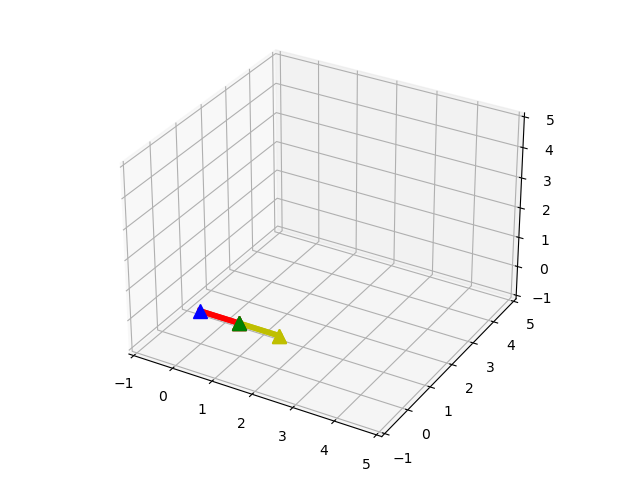
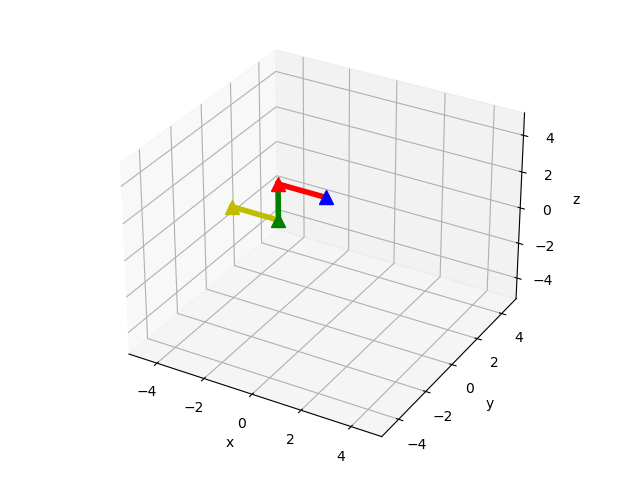
Se termina el ejercicio de cinematica directa para 3D

diff --git a/Fisica-II/Seminarios/Seminario-IV/cinematicaDirecta3D.py b/Fisica-II/Seminarios/Seminario-IV/cinematicaDirecta3D.py
@@ -32,7 +32,7 @@ def robot_structure():
 	p = np.array([1, 0, -1])
 	
 	#Se define la matriz homogenea de rotacion (T_matrix es una funcion creada posteriormente)
-	M0 = T_matrix(np.eye(3), p)
+	M0 = T_matrix(np.transpose(np.array([[0,0,-1],[0,1,0],[1,0,0]])), p)
 	return S1, S2, S3, M0
 
 
@@ -74,7 +74,7 @@ def exp_matrix(S, theta):
 
 #Se preparan las opciones para que el codigo pueda recibir parametros
 parser = OptionParser()
-parser.add_option("-a", "--a1", type="float", default=0, help="Ángulo de rotación para la primera articulación (grados)")
+parser.add_option("-a", "--a1", type="float", default=180, help="Ángulo de rotación para la primera articulación (grados)")
 parser.add_option("-b", "--a2", type="float", default=0, help="Ángulo de rotación para la segunda articulación (grados)")
 parser.add_option("-c", "--a3", type="float", default=0, help="Ángulo de rotación para la tercera articulación (grados)")
 (options, args) = parser.parse_args()
@@ -100,12 +100,12 @@ fig = plt.figure()
 ax = fig.add_subplot(111, projection= '3d')
 
 # Definimos el origen y el final de cada eslabón en la posición cero y en la posición final del robot
-p10ini = np.array([0, 0, 0, 1])
-p11ini = np.array([1, 0, 0, 1])
+p10ini = np.array([0, 0, 2, 1])
+p11ini = np.array([2, 0, 2, 1])
 p20ini = p11ini
-p21ini = np.array([1, 0, -1, 1])
+p21ini = np.array([2, 0, 0, 1])
 p30ini = p21ini
-p31ini = np.array([2, 0, -1, 1])
+p31ini = np.array([4, 0, 0, 1])
 p10fin = p10ini
 p11fin = T1 @ p11ini
 p20fin = p11fin
@@ -114,33 +114,36 @@ p30fin = p21fin
 p31fin = T1 @ T2 @ T3 @ p31ini
 
 # Dibuja el primer eslabón en posicion 0
-ax.plot([p10ini[0], p11ini[0]], [p10ini[1], p11ini[1]], 'r', linewidth=4)
+#ax.plot([p10ini[0], p11ini[0]], [p10ini[1], p11ini[1]], [p10ini[2], p11ini[2]], 'r', linewidth=4)
 # Dibuja el primer eslabon rotado
-ax.plot([p10fin[0], p11fin[0]], [p10fin[1], p11fin[1]], 'r', linewidth=4)
+ax.plot([p10fin[0], p11fin[0]], [p10fin[1], p11fin[1]], [p10fin[2], p11fin[2]], 'r', linewidth=4)
 
 # Dibuja el segundo eslabón
-ax.plot([p20ini[0], p21ini[0]], [p20ini[1], p21ini[1]], 'g', linewidth=4)
+#ax.plot([p20ini[0], p21ini[0]], [p20ini[1], p21ini[1]], [p20ini[2], p21ini[2]], 'g', linewidth=4)
 # Dibuja el segundo eslabon rotado 
-ax.plot([p20fin[0], p21fin[0]], [p20fin[1], p21fin[1]], 'g', linewidth=4)
+ax.plot([p20fin[0], p21fin[0]], [p20fin[1], p21fin[1]], [p20fin[2], p21fin[2]], 'g', linewidth=4)
 
 # Dibuja el tercer eslabón
-ax.plot([p30ini[0], p31ini[0]], [p30ini[1], p31ini[1]], 'y', linewidth=4)
+#ax.plot([p30ini[0], p31ini[0]], [p30ini[1], p31ini[1]], [p30ini[2], p31ini[2]], 'y', linewidth=4)
 # Dibuja el tercer eslabon rotado
-ax.plot([p30fin[0], p31fin[0]], [p30fin[1], p31fin[1]], 'y', linewidth=4)
+ax.plot([p30fin[0], p31fin[0]], [p30fin[1], p31fin[1]], [p30fin[2], p31fin[2]], 'y', linewidth=4)
 
 # Dibuja los puntos de interés
-ax.plot(p10ini[0], p10ini[1], 'b^', markersize=10) # punto inicial de L1
-ax.plot(p11ini[0], p11ini[1], 'r^', markersize=10) # punto final de L1 en la posición inicial
-ax.plot(p11fin[0], p11fin[1], 'r^', markersize=10) # punto final de L1 en la posición final
-ax.plot(p21ini[0], p21ini[1], 'g^', markersize=10) # punto final de L2 en la posición inicial
-ax.plot(p21fin[0], p21fin[1], 'g^', markersize=10) # punto final de L2 en la posición final
-ax.plot(p31ini[0], p31ini[1], 'y^', markersize=10) # punto final de L3 en la posición inicial
-ax.plot(p31fin[0], p31fin[1], 'y^', markersize=10) # punto final de L3 en la posición final
+ax.plot(p10ini[0], p10ini[1], p10ini[2], 'b^', markersize=10) # punto inicial de L1
+#ax.plot(p11ini[0], p11ini[1], p11ini[2], 'r^', markersize=10) # punto final de L1 en la posición 0
+ax.plot(p11fin[0], p11fin[1], p11fin[2], 'r^', markersize=10) # punto final de L1 en la posición rotada
+#ax.plot(p21ini[0], p21ini[1], p21ini[2], 'g^', markersize=10) # punto final de L2 en la posición 0
+ax.plot(p21fin[0], p21fin[1], p21fin[2], 'g^', markersize=10) # punto final de L2 en la posición rotada
+#ax.plot(p31ini[0], p31ini[1], p31ini[2], 'y^', markersize=10) # punto final de L3 en la posición 0
+ax.plot(p31fin[0], p31fin[1], p31fin[2], 'y^', markersize=10) # punto final de L3 en la posición rotada
 
 # Ajusta el tamaño del gráfico y lo guarda
-ax.set_xlim(-1, 5)
-ax.set_ylim(-1, 5)
-ax.set_zlim(-1, 5)
+ax.set_xlabel('x')
+ax.set_ylabel('y')
+ax.set_zlabel('z')
+ax.set_xlim(-5, 5)
+ax.set_ylim(-5, 5)
+ax.set_zlim(-5, 5)
 plt.tight_layout()
 plt.savefig('3R3D.png')
 
